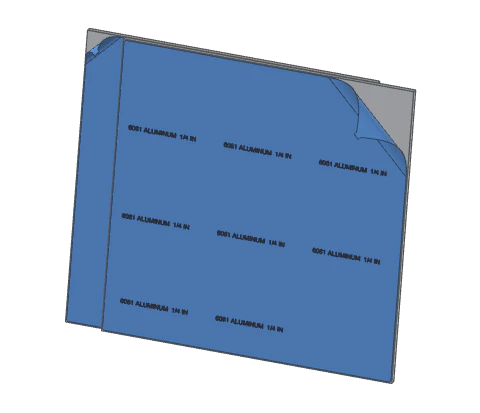
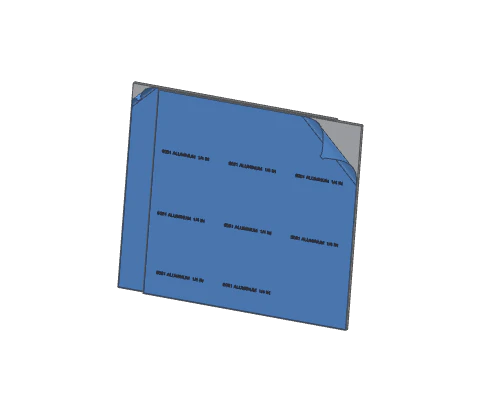
Draw the aluminium sheet smaller
The grid sizes every part by its visual area, and a flat sheet is nearly all
area, so it read far larger than its neighbours. A per-part factor (0.7 for
the sheets) now scales it in the grid's posters and live figures and in the
item view, on every screen size.

diff --git a/site/js/app.js b/site/js/app.js
@@ -332,9 +332,9 @@ function boot(cell) {
   return (cell.boot ??= (async () => {
     queue.delete(cell);
     await stage();
-    const { fig, multi } = await S.figureFor(cell.o);
+    const { fig, multi, k } = await S.figureFor(cell.o);
     await nextTask();
-    cell.s = liveFigure(cell.el.querySelector("canvas"), fig, S.cellFraming(multi));
+    cell.s = liveFigure(cell.el.querySelector("canvas"), fig, S.cellFraming(multi, k));
     cell.s.sync = true;
     placeHalo(cell, cell.s.view);
     // Without a poster it arrives the old way: fading in mid-turn and settling at rest.
@@ -617,9 +617,10 @@ function standDown() {
 // optical size (a long cable no longer shrinks its body; what runs past the edge fades), and
 // a bundle's bodies fill most of the box. Wider screens fit the part's whole turn.
 const narrow = matchMedia("(max-width: 719px)");
-function mount(fig, multi) {
+// `k`: the part's size factor (opticalOf in figure.js).
+function mount(fig, multi, k = 1) {
   if (big) live.delete(big);
-  big = liveFigure(viewCanvas, fig, narrow.matches ? (multi ? { frame: 0.78 } : { visual: 0.22 }) : { fill: multi ? 0.72 : 0.6 });
+  big = liveFigure(viewCanvas, fig, narrow.matches ? (multi ? { frame: 0.78 } : { visual: 0.22 * k }) : { fill: multi ? 0.72 : 0.6 * k });
   big.motionTarget = reduced ? 0 : 1;
   big.view.paint();
   // Arrive as a drawing, then fade the colour in and keep it.
@@ -632,7 +633,7 @@ function mount(fig, multi) {
 function showOffer(o) {
   showing = null;
   document.querySelectorAll("#view-inside button[data-k]").forEach((b) => b.removeAttribute("aria-current"));
-  stage().then(() => S.figureFor(o)).then(({ fig, multi }) => { if (current === o && !showing) { mount(fig, multi); handOff(o); } }).catch(() => {});
+  stage().then(() => S.figureFor(o)).then(({ fig, multi, k }) => { if (current === o && !showing) { mount(fig, multi, k); handOff(o); } }).catch(() => {});
 }
 
 function showPart(t) {
@@ -643,7 +644,7 @@ function showPart(t) {
   stage().then(() => S.loadPart(S.partUrl(t.cad))).then((data) => {
     if (showing !== t) return;
     const f = new S.Figure(data); f.holo = t.adopted ? 1 : 0;
-    mount(f, false);
+    mount(f, false, S.opticalOf(t.cad));
   }).catch(() => {});
 }
 

diff --git a/site/js/figure.js b/site/js/figure.js
@@ -11,7 +11,11 @@ export const partUrl = (id) => `parts/${id}.bin`;
 // photographed to read the same size. A bundle's parts are evened out among themselves
 // (see Group in stage.js), and together they fill this much of the box.
 const VISUAL = 0.165, GROUP_FRAME = 0.66;
-export const cellFraming = (multi) => (multi ? { frame: GROUP_FRAME } : { visual: VISUAL });
+// A few parts read too large at the same optical size: a flat sheet is nearly all area. They
+// are drawn at this fraction of it, in the grid and in the item view alike.
+const OPTICAL = { "al-sheet-quarter": 0.7, "al-sheet-eighth": 0.7 };
+export const opticalOf = (id) => OPTICAL[id] ?? 1;
+export const cellFraming = (multi, k = 1) => (multi ? { frame: GROUP_FRAME } : { visual: VISUAL * k });
 
 // Load the parts an offer shows; one part is a Figure, several stand together as a Group.
 // An offer with nothing modelled yet stands in as a cube.
@@ -20,5 +24,6 @@ export async function figureFor(o) {
   if (!datas.length) throw new Error(`no figures for ${o.id}`);
   const fig = datas.length > 1 ? new Group(datas, { hero: o.hero }) : new Figure(datas[0]);
   fig.holo = isAdopted(o) ? 1 : 0;
-  return { fig, multi: datas.length > 1 };
+  const multi = datas.length > 1;
+  return { fig, multi, k: multi ? 1 : opticalOf(o.show[0]) };
 }

diff --git a/site/dev-posters.html b/site/dev-posters.html
@@ -18,12 +18,12 @@ const offers = Q.has("ids") ? all.filter((o) => Q.get("ids").split(",").includes
 const canvas = document.getElementById("c");
 const out = { cells: {}, images: [] };
 for (const o of offers) {
-  const { fig, multi } = await figureFor(o);
+  const { fig, multi, k } = await figureFor(o);
   let view;
   for (const w of widths) {
     // The cell's box is 1 : .86 (.fig in site.css); the view rounds its height the same way.
     Object.assign(canvas.style, { width: `${w}px`, height: `${w * 0.86}px` });
-    view = new View(canvas, fig, { ...cellFraming(multi), dpr: 1 });
+    view = new View(canvas, fig, { ...cellFraming(multi, k), dpr: 1 });
     view.paint();
     out.images.push({ id: o.id, w, look: "", png: canvas.toDataURL("image/png") });
     fig.color = 1; view.paint(); fig.color = 0;

diff --git a/site/posters/manifest.js b/site/posters/manifest.js
@@ -529,10 +529,10 @@ export default {
   "show": "al-sheet-quarter",
   "hero": false,
   "holo": false,
-  "floor": 0.7818,
-  "width": 0.3397,
+  "floor": 0.6972,
+  "width": 0.2378,
   "parts": "9165c34bf0",
-  "v": "39203c37aa"
+  "v": "6bd2dd1af8"
  },
  "kit-hardware": {
   "show": "screw-kit",
